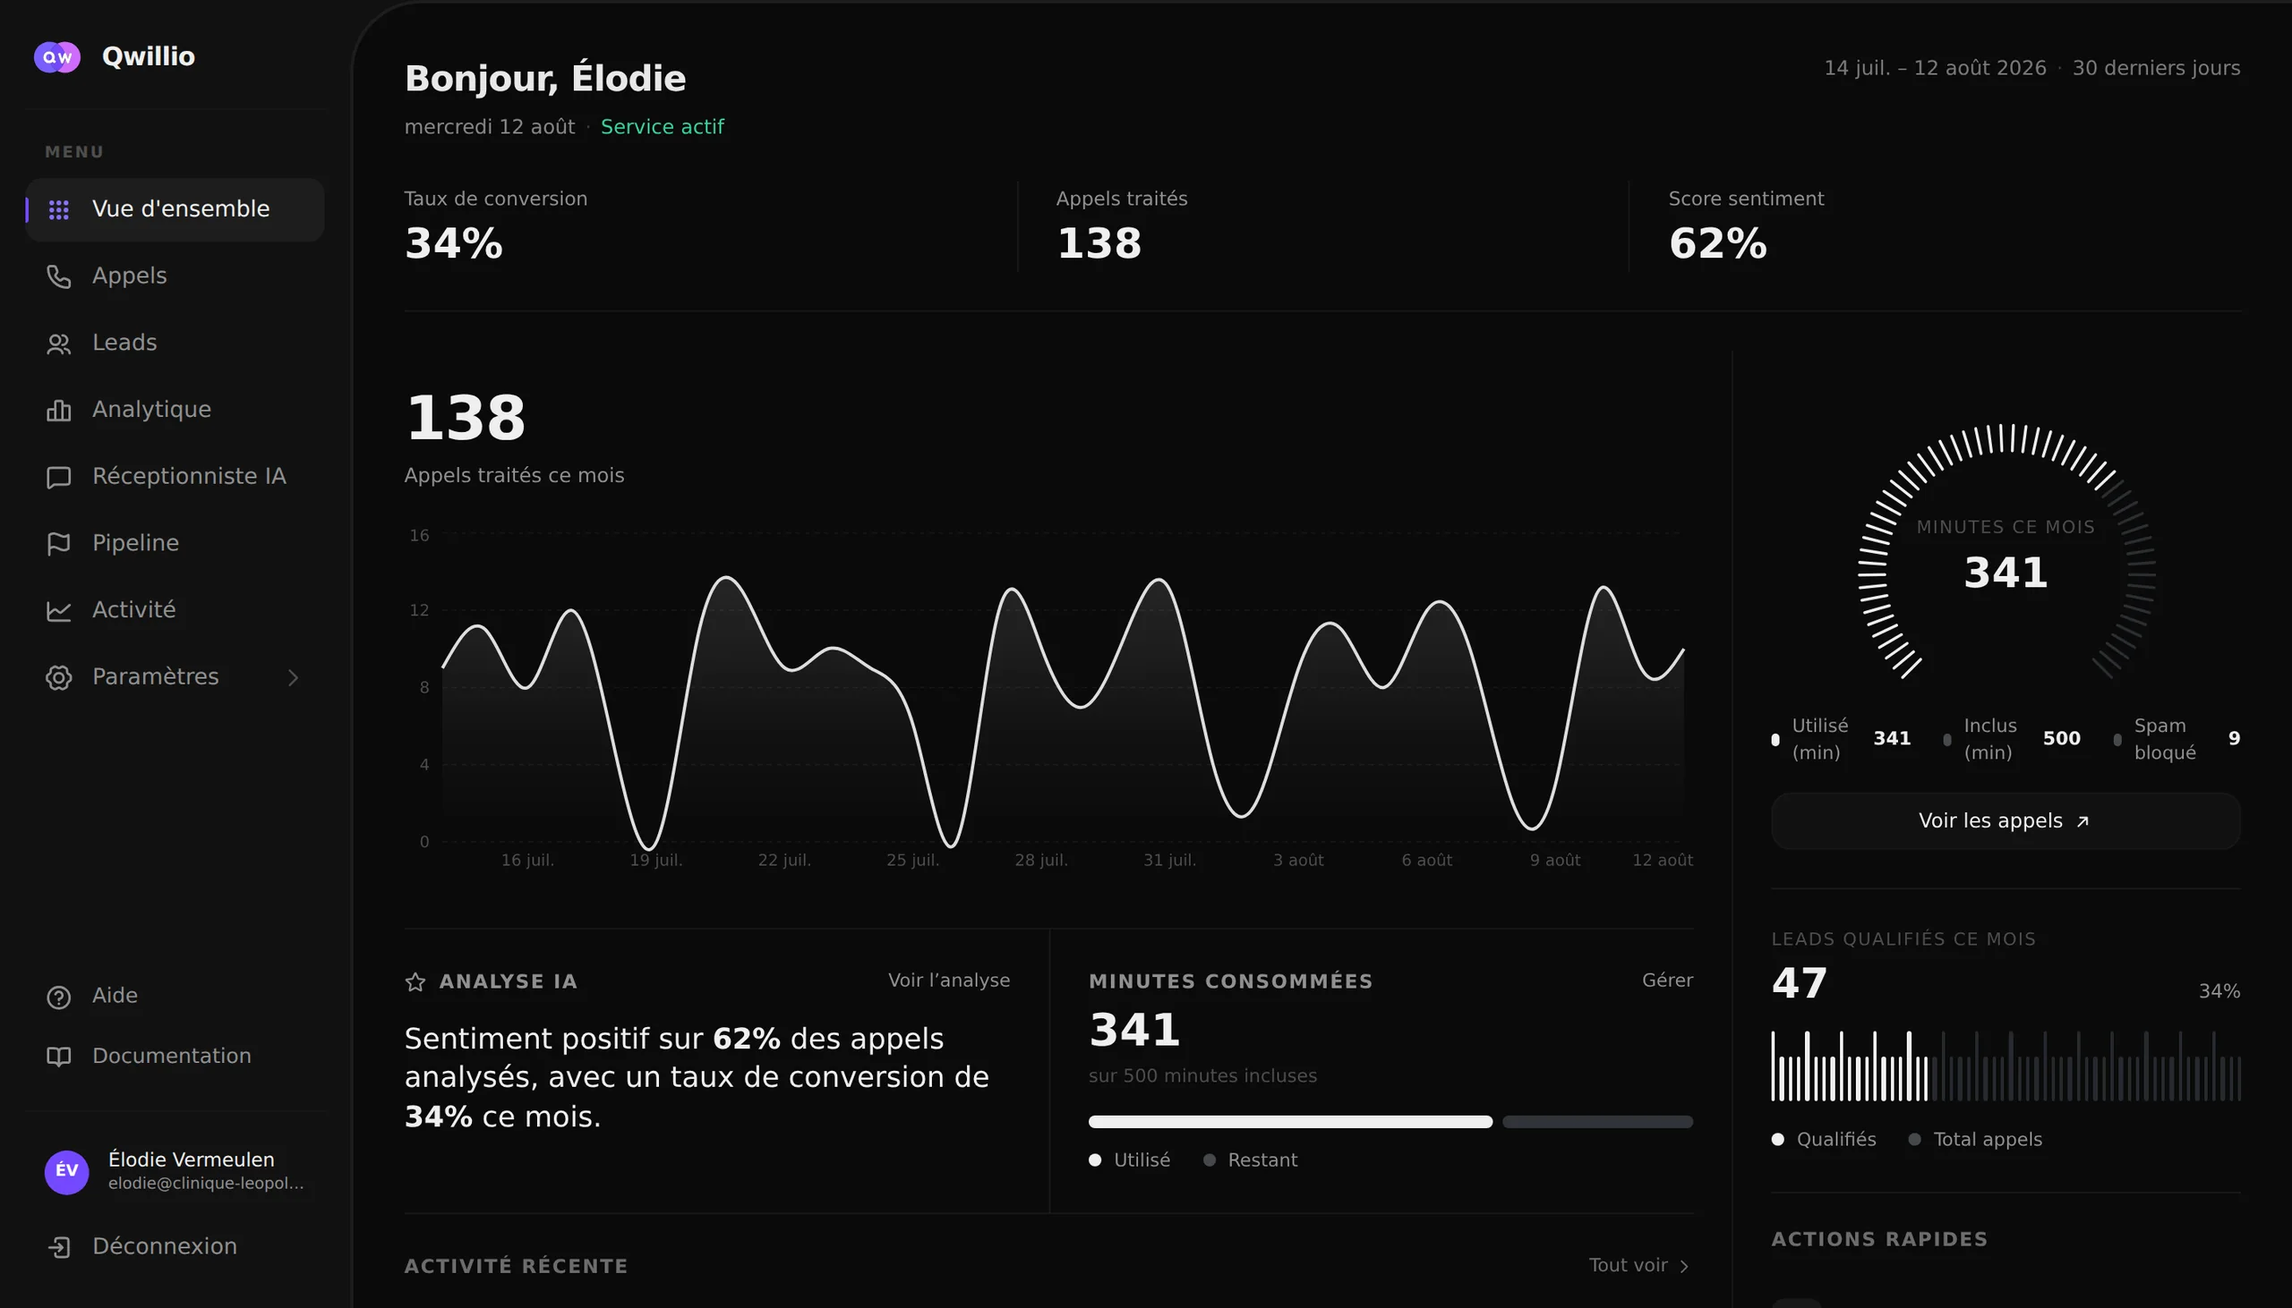
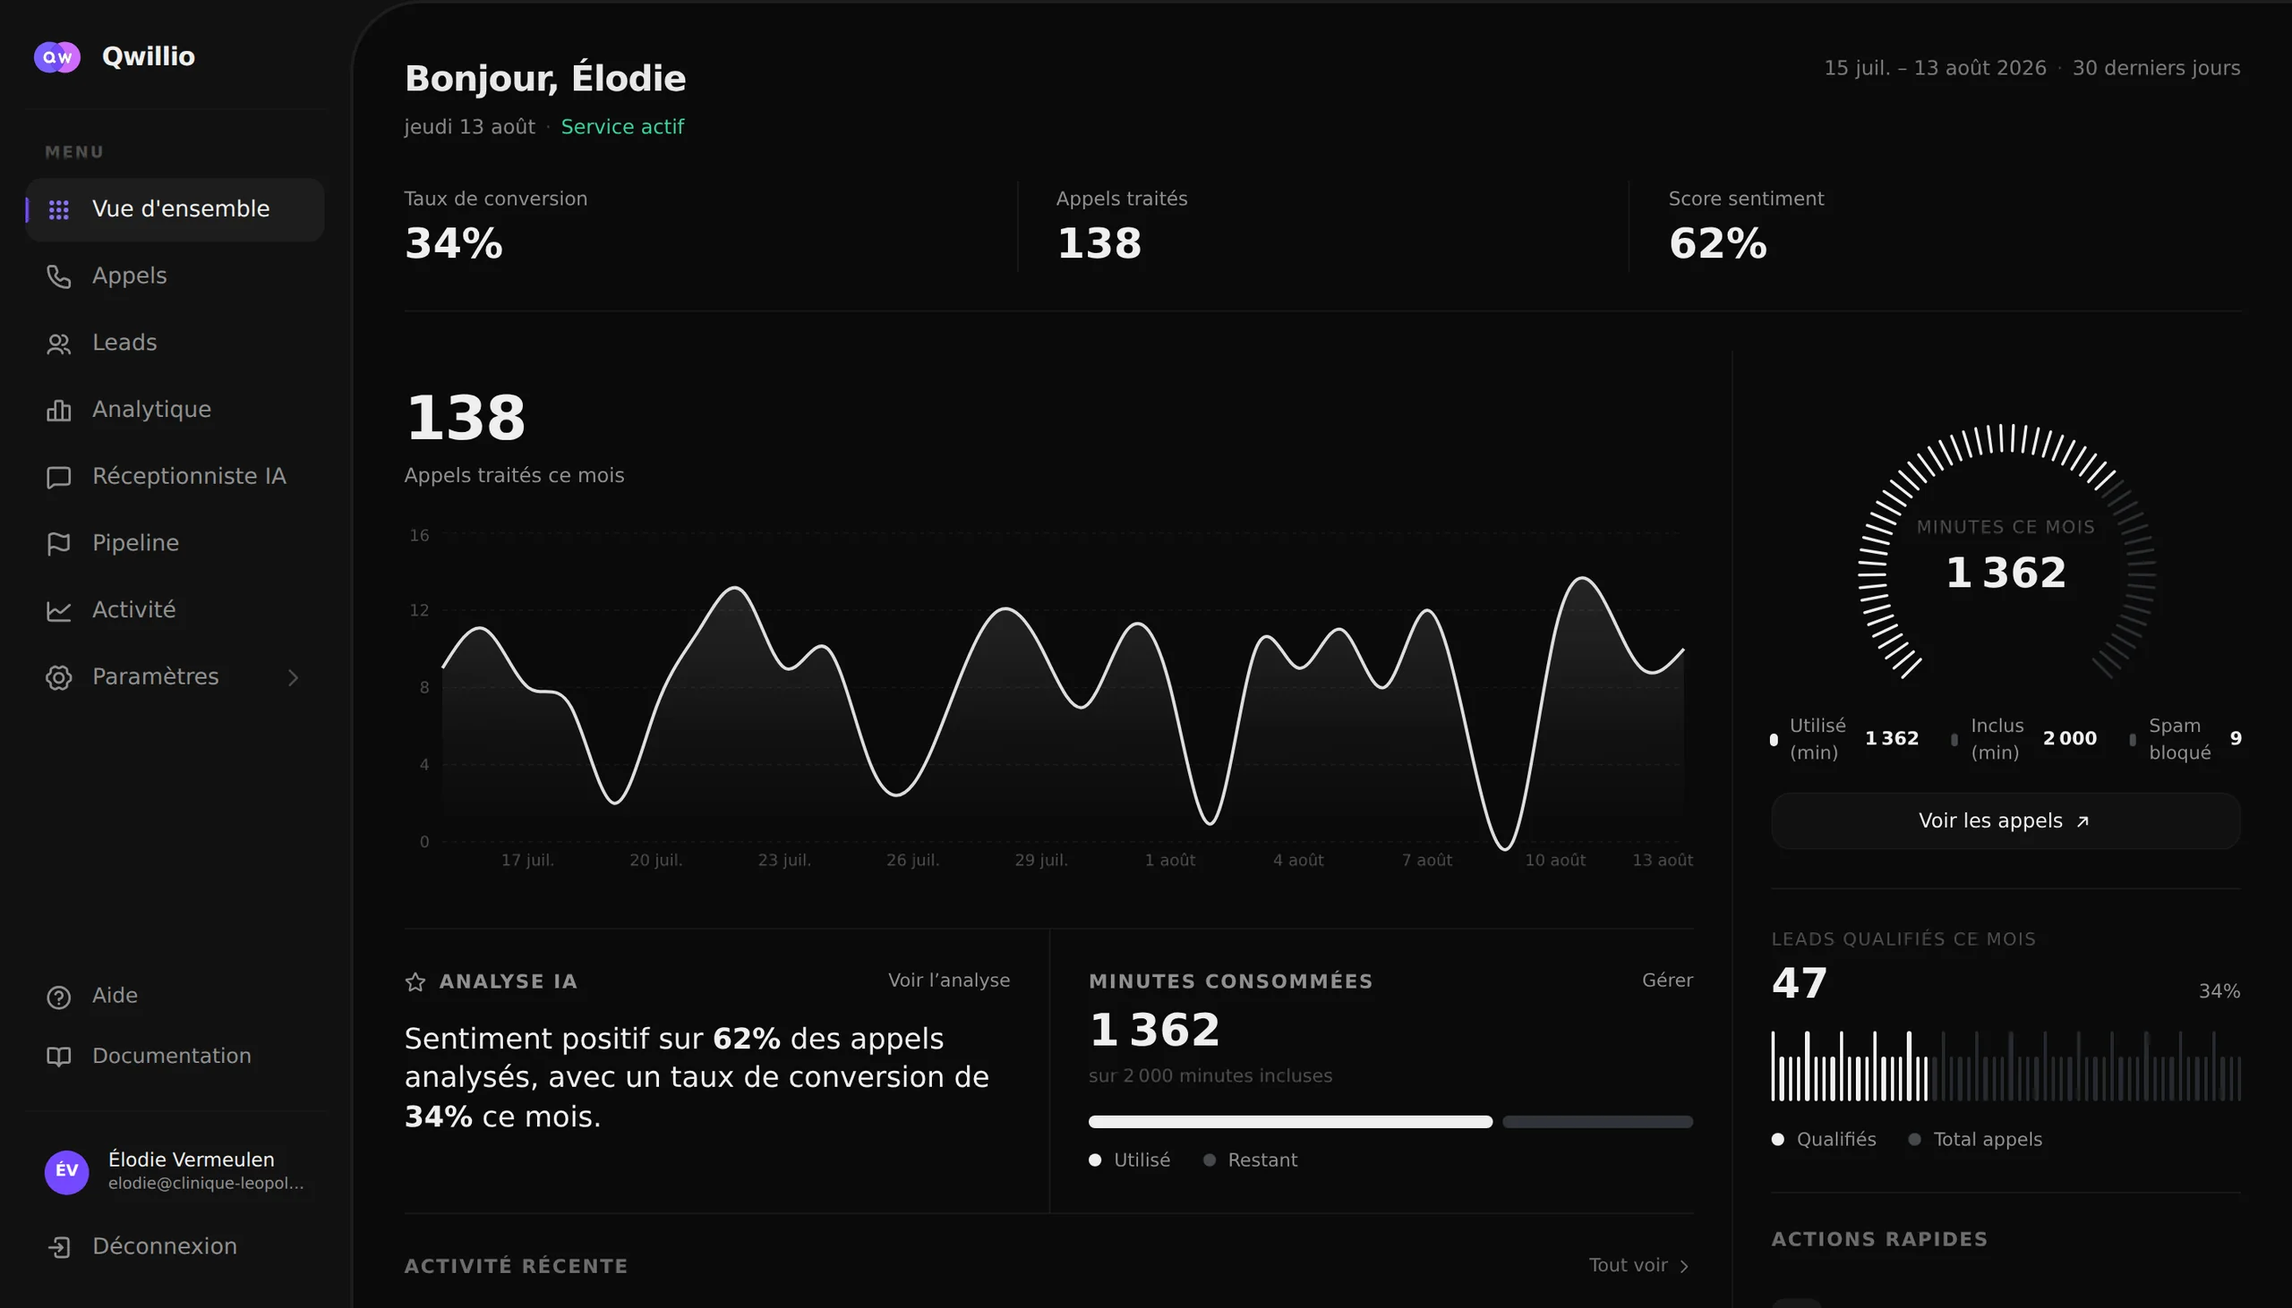
feat: le numéro de TVA rejoint l'identité de l'entreprise, et les points de chargement rebondissent (#134)
* feat(compte): le numéro de TVA rejoint l'identité de l'entreprise

Demande utilisateur. Il vivait sur Facturation, sous le moyen de paiement,
alors que c'est une donnée d'IDENTITÉ de la société, au même titre que son
nom et son métier: on ne va sur Facturation que pour lire une facture, et
personne n'y cherche où déclarer sa TVA.

Le champ QUITTE Facturation dans le même changement qu'il arrive sur
Compte: laisser les deux aurait donné deux sources pour une valeur, dont la
dernière enregistrée gagne. Il reste un renvoi sur Facturation, sinon le
champ a simplement disparu pour qui le cherchait là.

Il n'est envoyé que si les réglages ont bien été lus: le PUT est partiel
côté serveur, donc l'omettre le laisse intact, alors que l'envoyer vide
après un chargement raté l'effacerait.

Au passage, deux défauts trouvés en vérifiant la page au navigateur:
l'historique des paiements tombait sur « payments.map is not a function »
quand la route répondait un objet plutôt qu'un tableau (écran blanc pour
une simple liste vide), et le faux backend des captures n'avait aucune
réponse pour /billing ni /payments, si bien que la page ne pouvait pas être
photographiée.

* fix(captures): le forfait de démonstration s'accorde avec le catalogue

CodeRabbit, à juste titre: le faux client annonçait « Plan Pro » à 249 €
avec 500 minutes, alors que le catalogue de la page Facturation vend le Pro
à 599 € et 2 000 minutes. Ces chiffres partent en capture sur le site
[…]

diff --git a/frontend/src/pages/client/ClientBilling.tsx b/frontend/src/pages/client/ClientBilling.tsx
@@ -1,4 +1,5 @@
 import { useEffect, useState } from 'react';
+import { Link } from 'react-router-dom';
 import { motion } from 'framer-motion';
 import { Check, AlertTriangle, Shield, Phone, FileText, Download, CreditCard } from '../../components/icons';
 import api from '../../services/api';
@@ -140,18 +141,6 @@ function StatusPill({ status }: { status: string }) {
 
 export default function ClientBilling() {
   const [overview, setOverview] = useState<BillingOverview | null>(null);
-  /* Le numéro de TVA vit dans les réglages du client, pas dans l'aperçu de
-     facturation: c'est une donnée d'identité, pas un état d'abonnement. La page
-     le lit donc à part, et l'écrit par le même PUT que le reste des réglages. */
-  const [vatNumber, setVatNumber] = useState('');
-  const [vatSaved, setVatSaved] = useState<string | null>(null);
-  /* Le CHARGEMENT a-t-il réussi, question distincte de « le numéro est-il
-     vide ». Sans elle, un échec de `GET /settings` laissait le champ vide et le
-     bouton actif: un clic effaçait alors un numéro de TVA qu'on n'avait jamais
-     réussi à lire. */
-  const [settingsLoaded, setSettingsLoaded] = useState(false);
-  const [vatSaving, setVatSaving] = useState(false);
-  const [vatError, setVatError] = useState<string | null>(null);
   const [payments, setPayments] = useState<Payment[]>([]);
   const [loading, setLoading] = useState(true);
   const [showCancel, setShowCancel] = useState(false);
@@ -174,20 +163,19 @@ export default function ClientBilling() {
     Promise.allSettled([
       api.get('/my-dashboard/billing'),
       api.get('/my-dashboard/payments'),
-      api.get('/my-dashboard/settings'),
     ])
-      .then(([billingRes, paymentsRes, settingsRes]) => {
+      .then(([billingRes, paymentsRes]) => {
         if (billingRes.status === 'fulfilled') setOverview(billingRes.value.data);
         else setLoadError("Impossible de charger votre abonnement. Rechargez la page, ou contactez-nous si cela persiste.");
         if (paymentsRes.status === 'fulfilled') {
           const body = paymentsRes.value.data;
-          setPayments(body?.data || body || []);
-        }
-        if (settingsRes.status === 'fulfilled') {
-          const vat = settingsRes.value.data?.vatNumber || '';
-          setVatNumber(vat);
-          setVatSaved(vat);
-          setSettingsLoaded(true);
+          /* `Array.isArray` et non `|| []`: la route peut répondre un objet
+             (enveloppe, message d'erreur applicatif rendu en 200), et
+             `body?.data || body` le laissait passer tel quel. La page tombait
+             alors sur « payments.map is not a function », c'est-à-dire un écran
+             blanc pour une simple liste vide. */
+          const rows = Array.isArray(body) ? body : Array.isArray(body?.data) ? body.data : [];
+          setPayments(rows);
         }
       })
       .finally(() => setLoading(false));
@@ -221,22 +209,6 @@ export default function ClientBilling() {
      Un `window.open` serait bloqué par le navigateur: la réponse arrive après
      un aller-retour réseau, donc hors du geste de l'utilisateur, et le bloqueur
      de fenêtres ne fait pas la différence avec une publicité. */
-  /* L'enregistrement est explicite, pas automatique: un numéro de TVA
-     incomplet part chez Stripe à chaque frappe si on le sauve en continu, et
-     Stripe refuse alors la moitié des tentatives. */
-  const saveVatNumber = async () => {
-    setVatSaving(true);
-    setVatError(null);
-    try {
-      await api.put('/my-dashboard/settings', { vatNumber });
-      setVatSaved(vatNumber);
-    } catch (err: unknown) {
-      const msg = (err as { response?: { data?: { error?: string } } })?.response?.data?.error;
-      setVatError(msg || 'Enregistrement impossible. Réessayez.');
-    } finally {
-      setVatSaving(false);
-    }
-  };
 
   const openBillingPortal = async () => {
     setOpeningPortal(true);
@@ -635,44 +607,19 @@ export default function ClientBilling() {
           {openingPortal ? 'Ouverture…' : 'Gérer mon moyen de paiement'}
         </button>
 
-        {/* NUMÉRO DE TVA. Il ne sert pas à nous: il sert à la facture, que le
-            comptable du client regarde. Sans lui, un assujetti belge ne peut
-            pas la porter en compte, et un client d'un autre État membre ne
-            bénéficie pas de l'autoliquidation. Le champ vit sous le moyen de
-            paiement parce que c'est la même question: à qui et comment on
-            facture. */}
-        <div className="mt-6 pt-6 border-t" style={{ borderColor: 'rgba(255,255,255,0.07)' }}>
-          <label htmlFor="vat" className="block text-xs font-medium text-[#F5F5F7] mb-1">
-            Numéro de TVA
-          </label>
-          <p className="text-xs text-[#A1A1A8] mb-3">
-            Il apparaîtra sur vos factures. Laissez vide si vous n'êtes pas assujetti.
-          </p>
-          <div className="flex flex-wrap items-center gap-2">
-            <input
-              id="vat"
-              value={vatNumber}
-              onChange={(e) => setVatNumber(e.target.value)}
-              placeholder="BE 0123.456.789"
-              spellCheck={false}
-              className="px-4 py-2.5 text-sm rounded-xl border border-white/[0.07] bg-white/[0.02] text-[#F5F5F7] placeholder-[#8B8BA7] focus:outline-none focus:border-[#7349fe]/50 transition-colors w-[220px]"
-            />
-            <button
-              type="button"
-              onClick={saveVatNumber}
-              disabled={vatSaving || !settingsLoaded || vatNumber === vatSaved}
-              className="px-4 py-2 text-sm font-medium rounded-full border border-white/[0.12] text-[#F5F5F7] hover:bg-white/[0.06] disabled:opacity-40 transition-colors active:scale-[0.97]"
-            >
-              {vatSaving ? 'Enregistrement…' : vatNumber === vatSaved ? 'Enregistré' : 'Enregistrer'}
-            </button>
-          </div>
-          {!settingsLoaded && (
-            <p className="text-xs text-[#A1A1A8] mt-2">
-              Vos réglages n'ont pas pu être chargés. Rechargez la page avant de modifier ce champ.
-            </p>
-          )}
-          {vatError && <p className="text-xs text-red-400 mt-2">{vatError}</p>}
-        </div>
+        {/* Le NUMÉRO DE TVA a quitté cette page (demande utilisateur): il vit
+            désormais avec le nom et le métier, dans « Identité de l'entreprise »
+            sur la page Compte, parce que c'est une donnée d'identité de la
+            société et non un état d'abonnement. Il ne reste ici qu'un renvoi:
+            quelqu'un qui le cherchait sur Facturation doit savoir où il est
+            parti, sinon le champ a simplement disparu pour lui. */}
+        <p className="mt-6 pt-6 border-t text-xs text-[#A1A1A8]" style={{ borderColor: 'rgba(255,255,255,0.07)' }}>
+          Votre numéro de TVA, qui apparaît sur ces factures, se renseigne dans{' '}
+          <Link to="/dashboard/account" className="text-[#7349fe] hover:underline">
+            Compte, Identité de l'entreprise
+          </Link>
+          .
+        </p>
       </motion.div>
 
       {/* Danger zone — cancel */}

diff --git a/frontend/src/pages/client/ClientAccount.tsx b/frontend/src/pages/client/ClientAccount.tsx
@@ -193,6 +193,18 @@ export default function ClientAccount() {
   const [address, setAddress] = useState('');
   const [city, setCity] = useState('');
   const [postalCode, setPostalCode] = useState('');
+  /* Le numéro de TVA vit ici, avec le nom et le métier (demande utilisateur):
+     c'est une donnée d'IDENTITÉ de l'entreprise, pas un état d'abonnement. Il
+     était sur la page Facturation, où on ne va que pour lire une facture, et
+     où personne ne pense à aller renseigner l'identité de sa société.
+     Le champ a QUITTÉ Facturation en même temps qu'il arrive ici: laisser les
+     deux aurait donné deux sources pour une valeur, dont la dernière
+     enregistrée gagne. */
+  const [vatNumber, setVatNumber] = useState('');
+  /* Le chargement a-t-il réussi, question distincte de « le champ est-il
+     vide ». Sans elle, un échec de `GET /settings` laisse le champ vide et le
+     bouton actif: un clic effacerait alors un numéro qu'on n'a jamais lu. */
+  const [settingsLoaded, setSettingsLoaded] = useState(false);
   /* Non modifiables ici: ils viennent du contrat, pas des préférences. */
   const [readOnly, setReadOnly] = useState<{ contactName?: string; contactEmail?: string; country?: string }>({});
   const [bizSaving, setBizSaving] = useState(false);
@@ -223,6 +235,8 @@ export default function ClientAccount() {
       setAddress(data?.address || '');
       setCity(data?.city || '');
       setPostalCode(data?.postalCode || '');
+      setVatNumber(data?.vatNumber || '');
+      setSettingsLoaded(true);
       setReadOnly({ contactName: data?.contactName, contactEmail: data?.contactEmail, country: data?.country });
     }).catch(() => { /* keep defaults */ });
   }, []);
@@ -246,6 +260,11 @@ export default function ClientAccount() {
       await api.put('/my-dashboard/settings', {
         agentLanguage, businessName, businessType,
         contactPhone, address, city, postalCode,
+        /* Le numéro de TVA n'est envoyé QUE si les réglages ont bien été lus.
+           Le PUT est partiel côté serveur (`if (body.x !== undefined)`), donc
+           l'omettre le laisse intact; l'envoyer vide après un chargement raté
+           l'effacerait. */
+        ...(settingsLoaded ? { vatNumber } : {}),
       });
       invalidateLive('/my-dashboard/');
       setBizSaved(true);
@@ -690,6 +709,34 @@ export default function ClientAccount() {
                       </select>
                       <p className="text-[11px] mt-1" style={{ color: C.textTer }}>La langue parlée à vos appelants.</p>
                     </div>
+                  </div>
+                  {/* Le numéro de TVA, avec le nom et le métier: c'est
+                      l'identité de la société, au même titre qu'eux. Il vivait
+                      sur Facturation, où l'on ne va que pour lire une facture.
+                      Sans lui, la facture Stripe sort sans mention de TVA: un
+                      client belge assujetti ne peut pas la porter en compte, et
+                      un client d'un autre État membre perd l'autoliquidation.
+                      C'est la première chose que son comptable réclame. */}
+                  <div>
+                    <label className="text-[11px] uppercase tracking-wider font-medium" style={{ color: C.textTer }}>Numéro de TVA</label>
+                    <input
+                      type="text"
+                      value={vatNumber}
+                      onChange={e => setVatNumber(e.target.value)}
+                      disabled={!settingsLoaded}
+                      placeholder="BE0123456789"
+                      /* `characters` et non `words`: un numéro de TVA commence
+                         par deux lettres de pays, que la majuscule automatique
+                         d'iOS ne pose que sur la première. */
+                      autoCapitalize="characters"
+                      autoCorrect="off"
+                      spellCheck={false}
+                      className={inputCls + ' mt-1.5 font-mono'}
+                      style={{ borderColor: C.border }}
+                    />
+                    <p className="text-[11px] mt-1" style={{ color: C.textTer }}>
+                      Il apparaît sur vos factures. Laissez vide si vous n'êtes pas assujetti.
+                    </p>
                   </div>
                   {bizError && <p className="text-[12px]" style={{ color: C.bad }}>{bizError}</p>}
                   <div className="flex items-center gap-3 pt-2">

diff --git a/frontend/src/components/client/AssistantChat.tsx b/frontend/src/components/client/AssistantChat.tsx
@@ -70,6 +70,27 @@ function blobToBase64(blob: Blob): Promise<string> {
  * rouet annonçait « attendez », les points disent « elle écrit », et la carte
  * qu'ils occupent est celle que le texte va remplir, sans remplacement.
  *
+ * Ils REBONDISSENT, l'un après l'autre (demande utilisateur). Le battement
+ * d'opacité qu'ils faisaient avant se lisait comme les trois points qui
+ * palpitent ensemble: une variation de valeur n'a pas de direction, donc
+ * l'œil ne voyait pas passer la vague, il voyait clignoter un bloc. Un
+ * déplacement, lui, se suit.
+ *
+ * Trois détails font la fluidité, et aucun n'est décoratif:
+ *
+ * 1. Le décalage de 0,14 s vaut moins que la durée d'un saut: quand le
+ *    deuxième point décolle, le premier redescend encore. C'est ce
+ *    chevauchement qui fait une vague; à décalage plus large on verrait trois
+ *    sauts séparés, à décalage nul un seul mouvement.
+ * 2. Deux courbes, pas une. La montée décélère (elle lutte contre la
+ *    pesanteur), la descente accélère puis se pose. Une seule courbe
+ *    symétrique donne le rebond en caoutchouc des chargeurs génériques.
+ * 3. Un temps mort en fin de cycle (les images-clés s'arrêtent à 78 % de la
+ *    durée) : sans lui la vague repart avant d'être finie et se brouille.
+ *
+ * `y` et `opacity` seulement: tous deux composés par le GPU, donc rien ne
+ * remonte au calcul de mise en page pendant que la réponse arrive en flux.
+ *
  * Une boucle, donc des keyframes: c'est le seul cas où elles valent mieux
  * qu'une transition, puisque rien ici n'est interruptible par l'utilisateur.
  */
@@ -81,8 +102,14 @@ function ThinkingDots({ reduceMotion }: { reduceMotion: boolean }) {
           key={i}
           className="h-1.5 w-1.5 rounded-full"
           style={{ background: '#8B8BA7' }}
-          animate={reduceMotion ? { opacity: 0.6 } : { opacity: [0.25, 1, 0.25] }}
-          transition={reduceMotion ? { duration: 0 } : { duration: 1.1, repeat: Infinity, ease: 'easeInOut', delay: i * 0.14 }}
+          animate={reduceMotion ? { y: 0, opacity: 0.6 } : { y: [0, -5, 0], opacity: [0.4, 1, 0.4] }}
+          transition={reduceMotion ? { duration: 0 } : {
+            duration: 0.9,
+            times: [0, 0.42, 0.78],
+            ease: [[0.22, 1, 0.36, 1], [0.5, 0, 0.7, 1]],
+            repeat: Infinity,
+            delay: i * 0.14,
+          }}
         />
       ))}
     </span>
